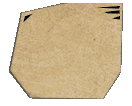
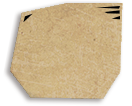
[!]

diff --git a/demo/recruit/css/style.css b/demo/recruit/css/style.css
@@ -201,7 +201,7 @@ body{ background:#5a5a5a;}
 .tab_list_1{ margin-left:7px;}
 .tab_list_2{ margin-left:66px;}
 .tab_list{ position:absolute; left:0px; top:0px; width:320px;}
-.tab_list .tab_item{ display:block; height:45px; float:left; background-size:contain; text-align:center; color:#000; font-family:'microsoft yahei'; font-weight:bold; font-size:16px; line-height:1.2; padding-top:8px; margin-right:-6px; -webkit-tap-highlight-color:rgba(0,0,0,0); -webkit-filter: drop-shadow(-2px 2px 2px rgba(0,0,0,0.5)); }
+.tab_list .tab_item{ display:block; height:45px; float:left; background-size:contain; text-align:center; color:#000; font-family:'microsoft yahei'; font-weight:bold; font-size:16px; line-height:1.2; padding-top:8px; margin-right:-6px; -webkit-tap-highlight-color:rgba(0,0,0,0); }
 .tab_list .tab_item:hover{ text-decoration:none; }
 
 /*.tab_list .tab_item_1{ background-image:url(../images/tab_1_1.png); width:72px;}
